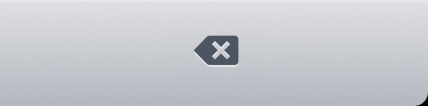
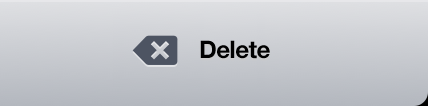
search button for customer

Changed region(s): [[0.4556, 0.3113, 0.6379, 0.6509], [0.3037, 0.3113, 0.4252, 0.6509]]

diff --git a/ABLockScreen/ABPadLockScreen.m b/ABLockScreen/ABPadLockScreen.m
@@ -187,8 +187,12 @@
     
     UIButton *blankButton = [UIButton buttonWithType:UIButtonTypeCustom];
     [blankButton setBackgroundImage:[UIImage imageNamed:@"blank_button"] forState:UIControlStateNormal];
-    [blankButton setBackgroundImage:[UIImage imageNamed:@"blank_button"] forState:UIControlStateSelected];
-    [blankButton setUserInteractionEnabled:NO];
+    [blankButton setBackgroundImage:[UIImage imageNamed:@"blank_button_selected"] forState:UIControlStateHighlighted];
+    [blankButton.titleLabel setFont:[UIFont fontWithName:@"HelveticaNeue-Bold" size:12.0]];
+    [blankButton setTitle:NSLocalizedString(@"Search", nil) forState:UIControlStateNormal];
+    [blankButton setTitleColor:[UIColor blackColor] forState:UIControlStateNormal];
+    [blankButton setTitleColor:[UIColor whiteColor] forState:UIControlStateHighlighted];
+    [blankButton setTitleEdgeInsets:UIEdgeInsetsMake(0.0, 0.0, 3.0, 0.0)];
     [blankButton setFrame:CGRectMake(CGRectGetMinX(sign978Button.frame), CGRectGetMaxY(sign978Button.frame) + 1, leftButtonWidth, buttonHeight)];
     [self.view addSubview:blankButton];
 
